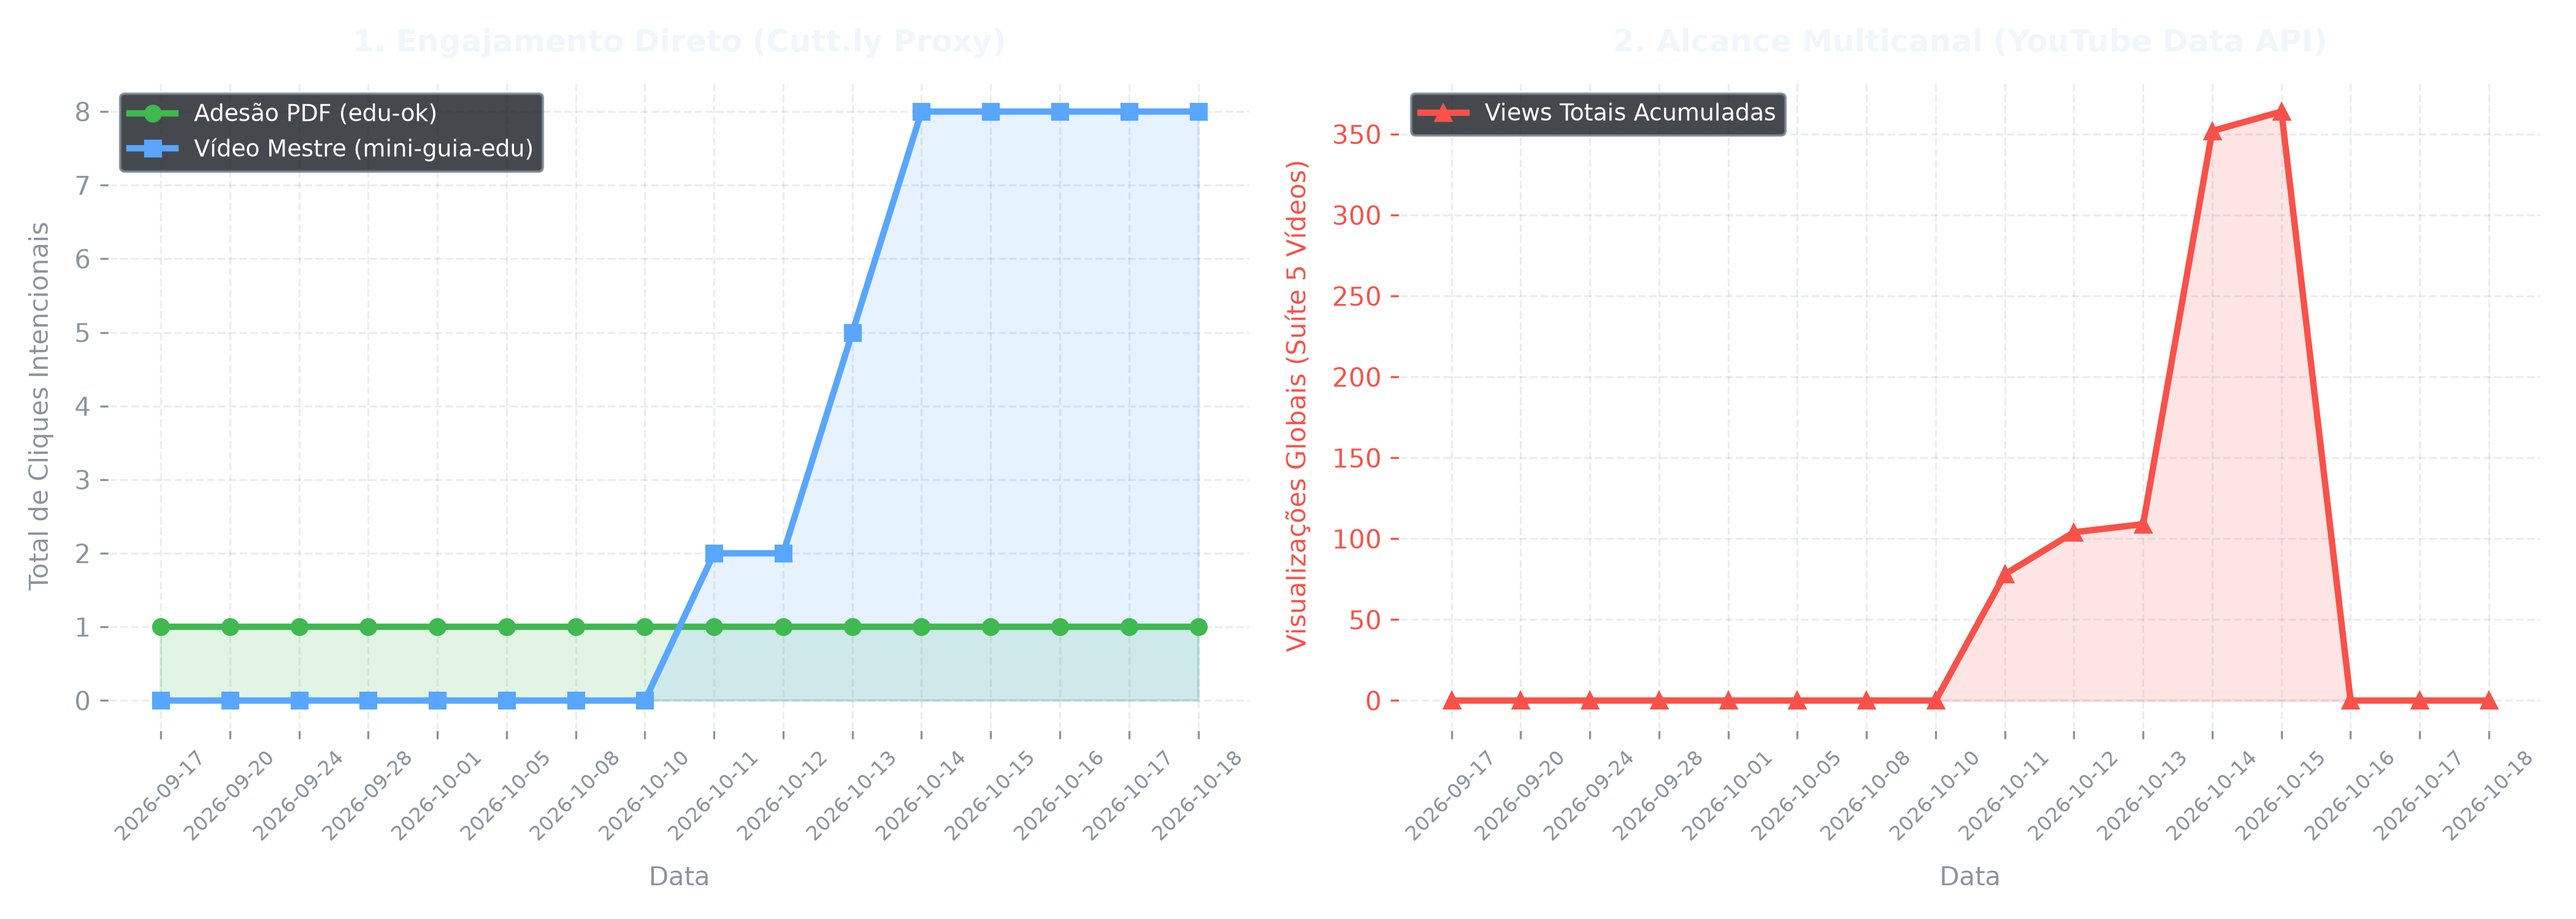
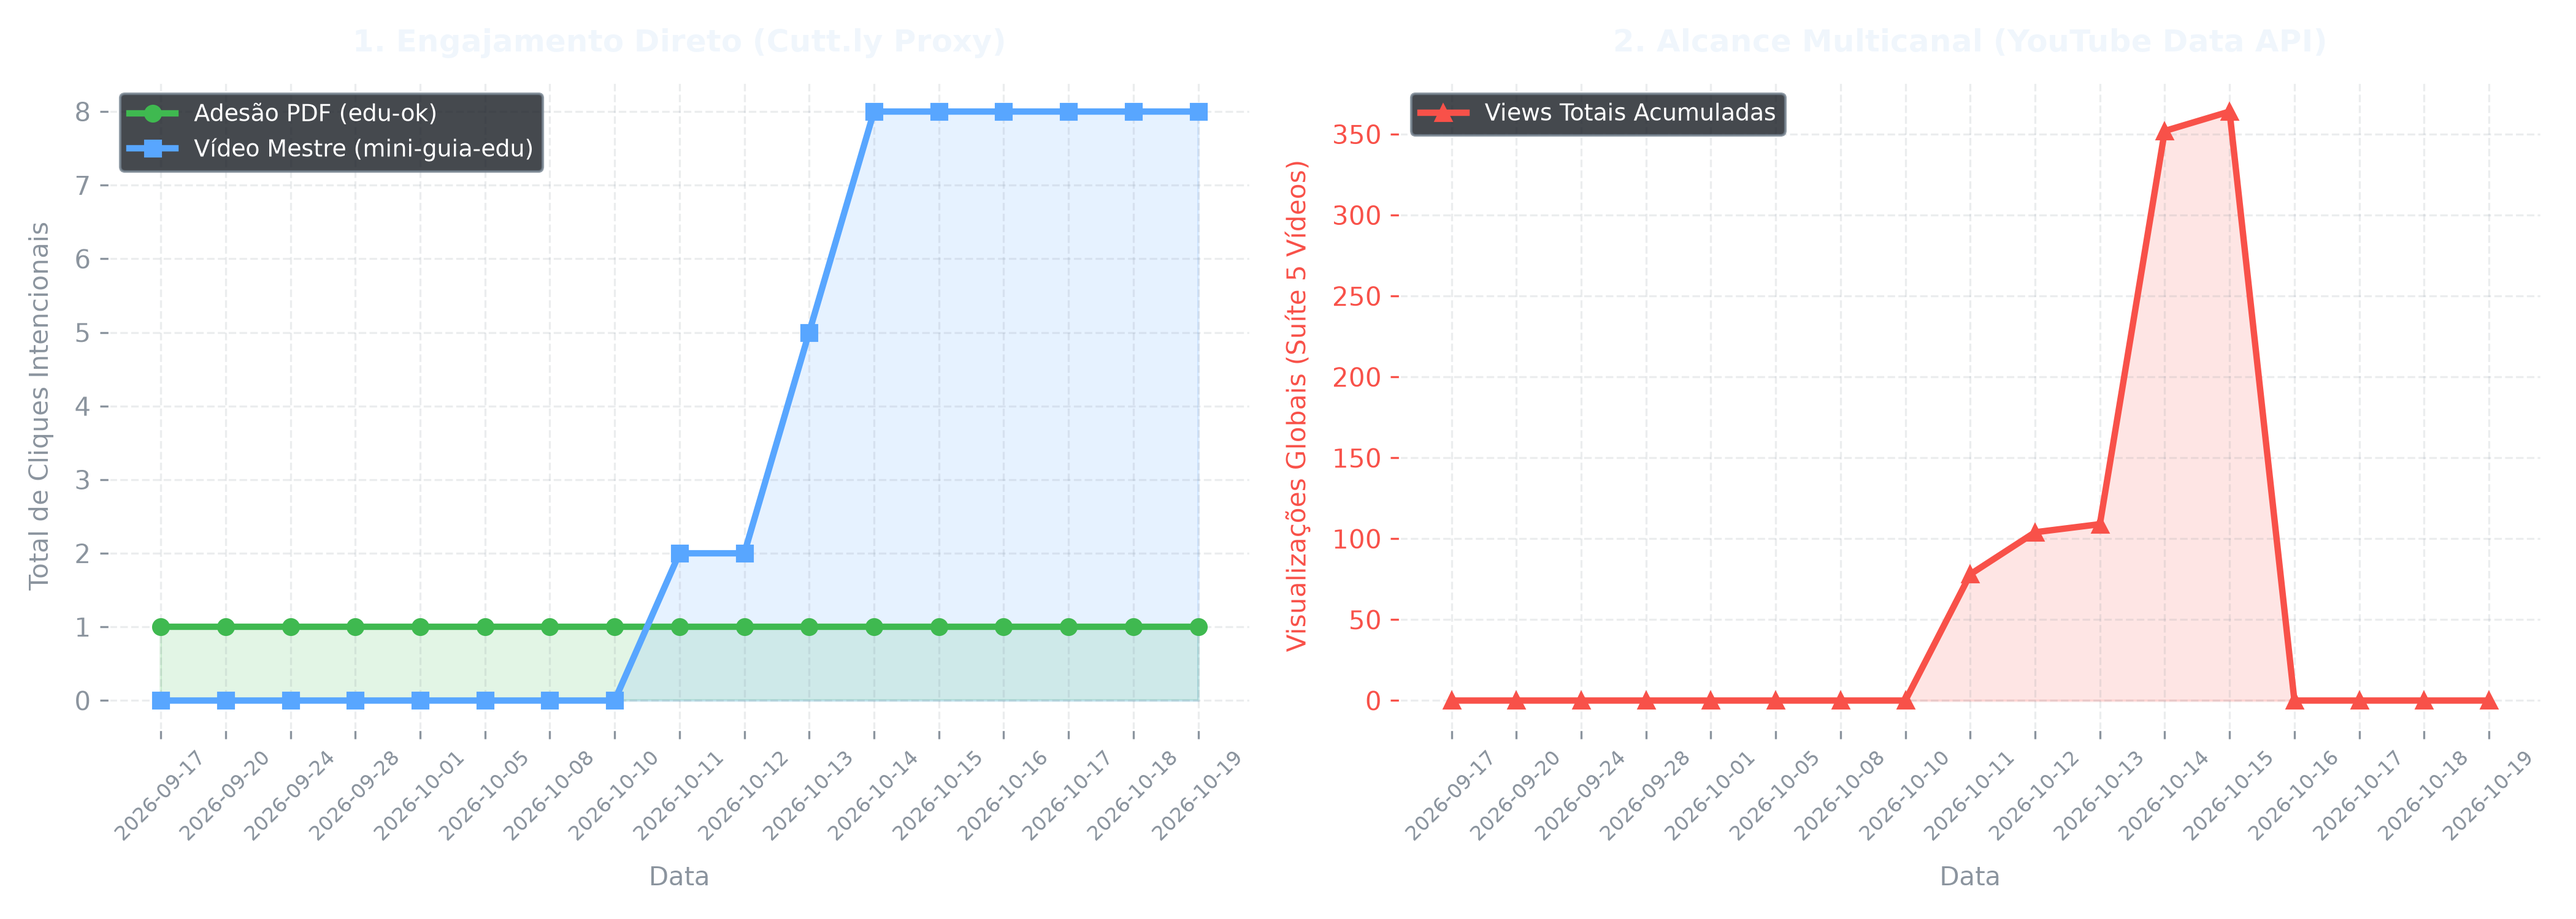
chore(telemetry): atualizar metricas e grafico [skip ci]

diff --git a/README.md b/README.md
@@ -56,7 +56,7 @@ O monitoramento do projeto opera sob arquitetura bimodal, diferenciando o tráfe
 Métricas rastreadas via links encurtados distribuídos nas campanhas ativas de WhatsApp:
 * 📄 **Adesão ao Material Escrito (PDF):** <!-- CLICKS_PDF_START -->**1**<!-- CLICKS_PDF_END --> download/confirmação (`cutt.ly/edu-ok`).
 * 🎬 **Acessos ao Vídeo Mestre Consolidado (141s):** <!-- CLICKS_VIDEO_START -->**8**<!-- CLICKS_VIDEO_END --> acessos direcionados (`cutt.ly/mini-guia-edu`).
-* 🕒 **Última sincronização:** <!-- DATE_START -->(Atualizado em 18/10/2026 às 23:26)<!-- DATE_END -->
+* 🕒 **Última sincronização:** <!-- DATE_START -->(Atualizado em 19/10/2026 às 14:58)<!-- DATE_END -->
 
 #### 2. Alcance e Retenção Audiovisual (YouTube Data API v3 & Studio)
 Distribuição multicanal composta por 1 Vídeo Mestre integrador e 4 Microvídeos atômicos (Shorts):
